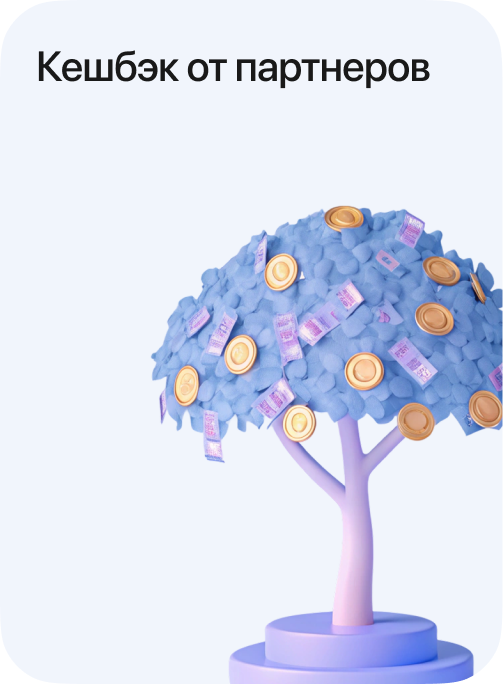
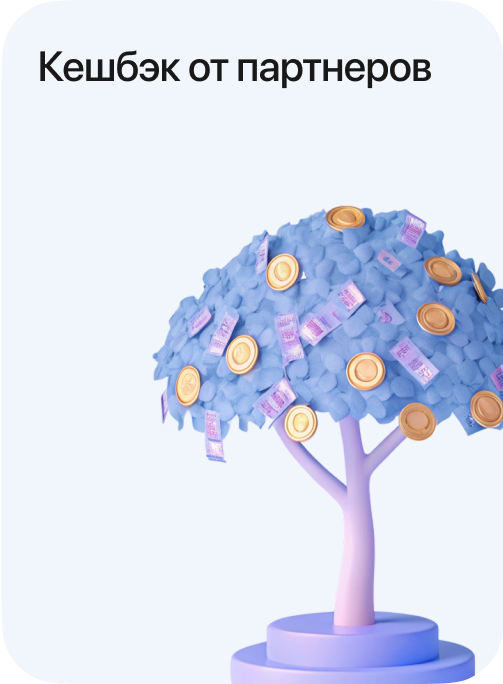
fix

diff --git a/src/components/Content/ServiceGrid.tsx b/src/components/Content/ServiceGrid.tsx
@@ -38,30 +38,28 @@ export function ServicesGrid() {
 
       <div className="box-border content-stretch flex flex-col gap-2 items-start justify-start pb-4 pt-2 px-4 relative shrink-0 w-full">
         {/* First Row */}
-        <div className="box-border content-stretch flex flex-row gap-2 items-center justify-start p-0 relative shrink-0 w-full">
+        <div className="basis-0 box-border content-stretch flex flex-row gap-2 items-center justify-start p-0 relative shrink-0 w-full">
           <div
-            className="basis-0 bg-[#f1f5fc] grow h-[228px] min-h-px min-w-px overflow-clip relative rounded-[20px] shrink-0 cursor-pointer"
+            className="basis-0 bg-[#f1f5fc] grow relative rounded-[20px] cursor-pointer"
             onClick={cashback}
           >
-            <div className="relative w-[100%] h-[100%] rounded-lg overflow-hidden">
+            <div className="rounded-lg overflow-hidden">
               <img
                 src={tree}
                 alt="Карта"
-                className="absolute object-cover"
               />
             </div>
           </div>
 
           <div className="basis-0 box-border content-stretch flex flex-col gap-2 grow items-start justify-start min-h-px min-w-px p-0 relative shrink-0">
             <div
-              className="bg-[#f1f5fc] h-[110px] overflow-clip relative rounded-[20px] shrink-0 w-full cursor-pointer"
+              className="basis-0 bg-[#f1f5fc] overflow-clip relative rounded-[20px] shrink-0 w-full cursor-pointer"
               onClick={formular}
             >
-              <div className="relative w-[100%] h-[100%] rounded-lg overflow-hidden">
+              <div className="rounded-lg overflow-hidden">
                 <img
                   src={books}
                   alt="Карта"
-                 className="absolute object-cover"
                 />
               </div>
               <div className="absolute flex items-center justify-center left-[47.5px] size-[145px] top-2.5">
@@ -72,14 +70,13 @@ export function ServicesGrid() {
             </div>
 
             <div
-              className="bg-[#f1f5fc] h-[110px] overflow-clip relative rounded-[20px] shrink-0 w-full cursor-pointer"
+              className="basis-0 bg-[#f1f5fc] overflow-clip relative rounded-[20px] shrink-0 w-full cursor-pointer"
               onClick={questions}
             >
-              <div className="relative w-[100%] h-[100%] rounded-lg overflow-hidden">
+              <div className="rounded-lg overflow-hidden">
                 <img
                   src={q}
                   alt="Карта"
-                  className="absolute object-cover"
                 />
               </div>
               <div className="absolute bg-center bg-cover bg-no-repeat left-[72.5px] size-[110px] top-[27px]" />
@@ -88,32 +85,30 @@ export function ServicesGrid() {
         </div>
 
         {/* Second Row */}
-        <div className="box-border content-stretch flex flex-row gap-2 items-center justify-start p-0 relative shrink-0 w-full">
+        <div className="basis-0 box-border content-stretch flex flex-row gap-2 items-center justify-start p-0 relative shrink-0 w-full">
           <div
-            className="basis-0 bg-[#f1f5fc] grow h-[110px] min-h-px min-w-px overflow-clip relative rounded-[20px] shrink-0 cursor-pointer"
+            className="basis-0 bg-[#f1f5fc] grow min-h-px min-w-px overflow-clip relative rounded-[20px] shrink-0 cursor-pointer"
             onClick={connect}
           >
-            <div className="relative w-[100%] h-[100%] rounded-lg overflow-hidden">
+            <div className="rounded-lg overflow-hidden">
               <img
                 src={connections}
                 alt="Карта"
-                className="absolute object-cover"
               />
             </div>
             <div className="absolute bg-center bg-cover bg-no-repeat left-[47.5px] size-36 top-2.5" />
           </div>
 
           <div
-            className="basis-0 bg-[#f1f5fc] grow h-[110px] min-h-px min-w-px overflow-clip relative rounded-[20px] shrink-0 cursor-pointer"
+            className="basis-0 bg-[#f1f5fc] grow min-h-px min-w-px overflow-clip relative rounded-[20px] shrink-0 cursor-pointer"
             onClick={creditStory}
           >
-            <div className="absolute bg-center bg-cover bg-no-repeat left-[57px] size-[132px] top-3" />
-            <div className="relative w-[100%] h-[100%] rounded-lg overflow-hidden">
+            <div className="rounded-lg overflow-hidden">
               <img
                 src={creditstoryimg}
                 alt="Карта"
-                className="absolute object-cover"
               />
+            <div className="absolute bg-center bg-cover bg-no-repeat left-[57px] size-[132px] top-3" />
             </div>
           </div>
         </div>
@@ -121,13 +116,12 @@ export function ServicesGrid() {
           className="box-border content-stretch flex flex-row gap-2 items-center justify-start p-0 relative shrink-0 w-full cursor-pointer"
           onClick={office}
         >
-          <div className="basis-0 bg-[#f1f5fc] grow h-[110px] min-h-px min-w-px overflow-clip relative rounded-[20px] shrink-0">
+          <div className="basis-0 bg-[#f1f5fc] grow min-h-px min-w-px overflow-clip relative rounded-[20px] shrink-0">
             <div className="absolute bg-center bg-cover bg-no-repeat left-[57px] size-[132px] top-3" />
-            <div className="relative w-[100%] h-[100%] rounded-lg overflow-hidden">
+            <div className="rounded-lg overflow-hidden">
               <img
                 src={officepic}
                 alt="Карта"
-                className="absolute object-cover"
               />
             </div>
           </div>

diff --git a/src/components/Content/ChartBlocks.tsx b/src/components/Content/ChartBlocks.tsx
@@ -83,7 +83,7 @@ function ExpenseChart() {
 function ExpenseBlock({ data }: { data: CardData["expenses"] }) {
   return (
     <div
-      className="bg-[#f1f5fc] box-border content-stretch flex flex-col gap-3 items-start justify-start p-[16px] relative rounded-[20px] shrink-0 w-auto"
+      className="bg-[#f1f5fc] box-border content-stretch flex flex-col gap-3 items-start justify-start p-[12px] relative rounded-[20px] shrink-0 w-auto max-w-[140px] max-h-[92px]"
       data-name="block"
     >
       <Title amount={data.amount} title={data.title} />
@@ -100,7 +100,7 @@ function ExpenseBlock({ data }: { data: CardData["expenses"] }) {
 function IncomeTitle({ amount, title }: { amount: string; title: string }) {
   return (
     <div
-      className="box-border content-stretch flex flex-col items-center justify-center leading-[0] not-italic p-0 relative shrink-0 text-left w-full"
+      className="box-border content-stretch flex flex-col items-center justify-center leading-[0] not-italic p-0 relative shrink-0 text-left w-[max-content]"
       data-name="title"
     >
       <div className="font-sans relative shrink-0 text-[#191919]  tracking-[-0.16px] w-full">
@@ -131,11 +131,11 @@ function IncomeChart() {
 function IncomeBlock({ data }: { data: CardData["income"] }) {
   return (
     <div
-      className="basis-0 bg-[#f1f5fc] grow min-h-px relative rounded-[20px] shrink-0 w-auto"
+      className="basis-0 bg-[#f1f5fc] grow rounded-[20px] shrink-0"
       data-name="block"
     >
-      <div className="relative size-full">
-        <div className="box-border content-stretch flex flex-col gap-3 items-start justify-start p-[16px] relative w-full">
+      <div>
+        <div className="box-border content-stretch flex flex-col gap-3 items-start justify-start p-[12px] w-full">
           <IncomeTitle amount={data.amount} title={data.title} />
           <IncomeChart />
         </div>
@@ -194,7 +194,7 @@ export function ChartBlocks({ selectedCard }: ChartBlocksProps) {
       <div onClick={analytics} className="cursor-pointer">
         <ExpenseBlock data={cardData.expenses} />
       </div>
-      <div onClick={analytics2} className="cursor-pointer w-full">
+      <div onClick={analytics2} className="cursor-pointer">
         <IncomeBlock data={cardData.income} />
       </div>
     </div>

diff --git a/src/components/Content/InvestmentTabContent.tsx b/src/components/Content/InvestmentTabContent.tsx
@@ -14,15 +14,14 @@ export function InvestmentTabContent() {
       data-name="container"
     >
       <div
-        className="bg-[#f1f5fc] h-[220px] overflow-clip relative rounded-2xl shrink-0 w-full cursor-pointer"
+        className="bg-[#f1f5fc] overflow-clip relative rounded-2xl shrink-0 w-full cursor-pointer"
         data-name="content"
         onClick={handleBack}
       >
-        <div className="relative w-[100%] h-[100%] overflow-hidden">
+        <div className="overflow-hidden">
           <img
             src={investcontent}
             alt="Карта"
-            className="absolute inset-0 w-full h-full object-cover"
           />
         </div>
       </div>

diff --git a/src/components/Content/Card12.tsx b/src/components/Content/Card12.tsx
@@ -10,15 +10,14 @@ function Card12() {
   };
   return (
     <div
-      className="basis-0 bg-[#ffffff] grow h-[132px] min-h-px min-w-px overflow-clip relative rounded-3xl shrink-0 cursor-pointer"
+      className="basis-0 bg-[#ffffff] grow min-h-px min-w-px overflow-clip relative rounded-3xl shrink-0 cursor-pointer"
       data-name="card"
       onClick={handleBack}
     >
-      <div className="relative w-[100%] h-[100%] overflow-hidden">
+      <div className="overflow-hidden">
         <img
           src={cardspic}
           alt="Карта"
-          className="absolute object-cover"
         />
       </div>
       <div

diff --git a/src/components/Content/Card11.tsx b/src/components/Content/Card11.tsx
@@ -10,15 +10,14 @@ function Card11() {
   };
   return (
     <div
-      className="basis-0 bg-[#ffffff] grow h-[132px] min-h-px min-w-px overflow-clip relative rounded-3xl shrink-0 cursor-pointer"
+      className="basis-0 bg-[#ffffff] grow min-h-px min-w-px overflow-clip relative rounded-3xl shrink-0 cursor-pointer"
       data-name="card"
       onClick={handleBack}
     >
-      <div className="relative w-[100%] h-[100%] overflow-hidden">
+      <div className="overflow-hidden">
         <img
           src={flower}
           alt="Карта"
-          className="absolute object-cover"
         />
       </div>
       <div

diff --git a/src/components/Content/DepositTabContent.tsx b/src/components/Content/DepositTabContent.tsx
@@ -10,15 +10,14 @@ function DepositPromoCard() {
   };
   return (
     <div
-      className="bg-[#f1f5fc] h-[220px] overflow-clip relative rounded-2xl shrink-0 w-full cursor-pointer"
+      className="bg-[#f1f5fc] overflow-clip relative rounded-2xl shrink-0 w-full cursor-pointer"
       data-name="content"
       onClick={handleBack}
     >
-      <div className="relative w-[100%] h-[100%] overflow-hidden">
+      <div className="overflow-hidden">
         <img
           src={bankcontent}
           alt="Карта"
-          className="absolute inset-0 w-full h-full object-cover"
         />
       </div>
     </div>

diff --git a/src/components/Content/Banner2.tsx b/src/components/Content/Banner2.tsx
@@ -3,11 +3,11 @@ import banner_row from "/assets/banner_row.png";
 function Banner2() {
   return (
     <div
-      className="basis-0 grow h-[132px] overflow-clip relative shrink-0 cursor-pointer"
+      className="basis-0 grow overflow-clip relative shrink-0 cursor-pointer"
       data-name="banner"
     >
-      <div className="relative w-[100%] h-[100%] overflow-hidden rounded-4xl">
-        <img src={banner_row} alt="Карта" className="absolute object-cover" />
+      <div className="overflow-hidden rounded-4xl">
+        <img src={banner_row} alt="Карта" />
       </div>
     </div>
   );

diff --git a/src/components/Content/Features3.tsx b/src/components/Content/Features3.tsx
@@ -5,7 +5,7 @@ function Features3() {
   return (
     <div className="relative shrink-0 w-full" data-name="features">
       <div className="flex flex-row items-center relative size-full">
-        <div className="box-border content-stretch flex flex-row gap-2 items-center justify-start p-[16px] relative w-full overflow-x-auto">
+        <div className="box-border content-stretch flex flex-row gap-2 items-center justify-start pl-[16px] pr-[16px] relative w-full overflow-x-auto">
           <Card11 />
           <Card12 />
         </div>

diff --git a/src/components/Content/BannerRow1.tsx b/src/components/Content/BannerRow1.tsx
@@ -10,7 +10,7 @@ function BannerRow1() {
   return (
     <div className="relative shrink-0 w-full" data-name="banner_row">
       <div className="flex flex-row items-center relative size-full cursor-pointer" onClick={handleBack}>
-        <div className="box-border p-[16px] relative w-[100%] rounded-3xl overflow-hidden">
+        <div className="box-border pl-[16px] pr-[16px] pb-[16px] relative w-[100%] rounded-3xl overflow-hidden">
           <Banner2 />
         </div>
       </div>

diff --git a/index.html b/index.html
@@ -7,7 +7,7 @@
   <meta name="theme-color" content="#316dcc" id="meta-theme-color">
   <meta name="mobile-web-app-capable" content="yes">
   <meta name="apple-mobile-web-app-capable" content="yes">
-  <meta name="viewport" content="width=device-width, initial-scale=1, viewport-fit=cover" />
+  <meta name="viewport" content="width=320px, user-scalable=no" />
   <title>CEB</title>
 </head>
 
